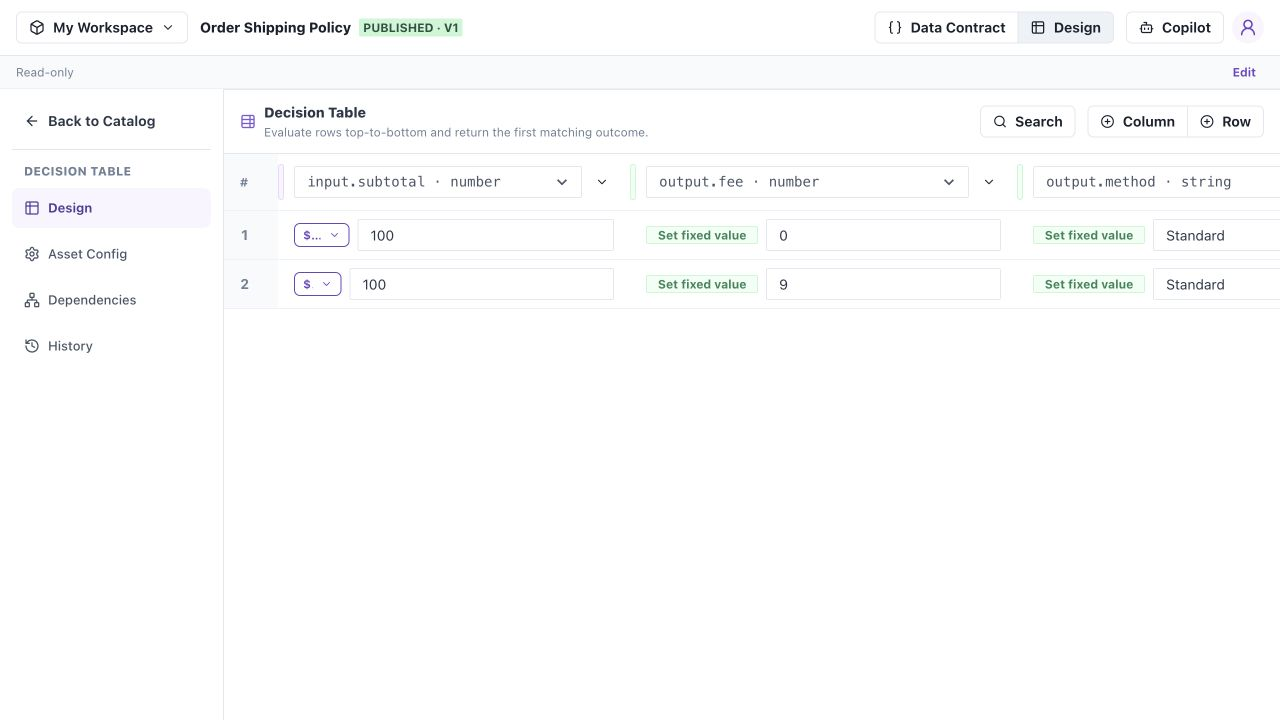
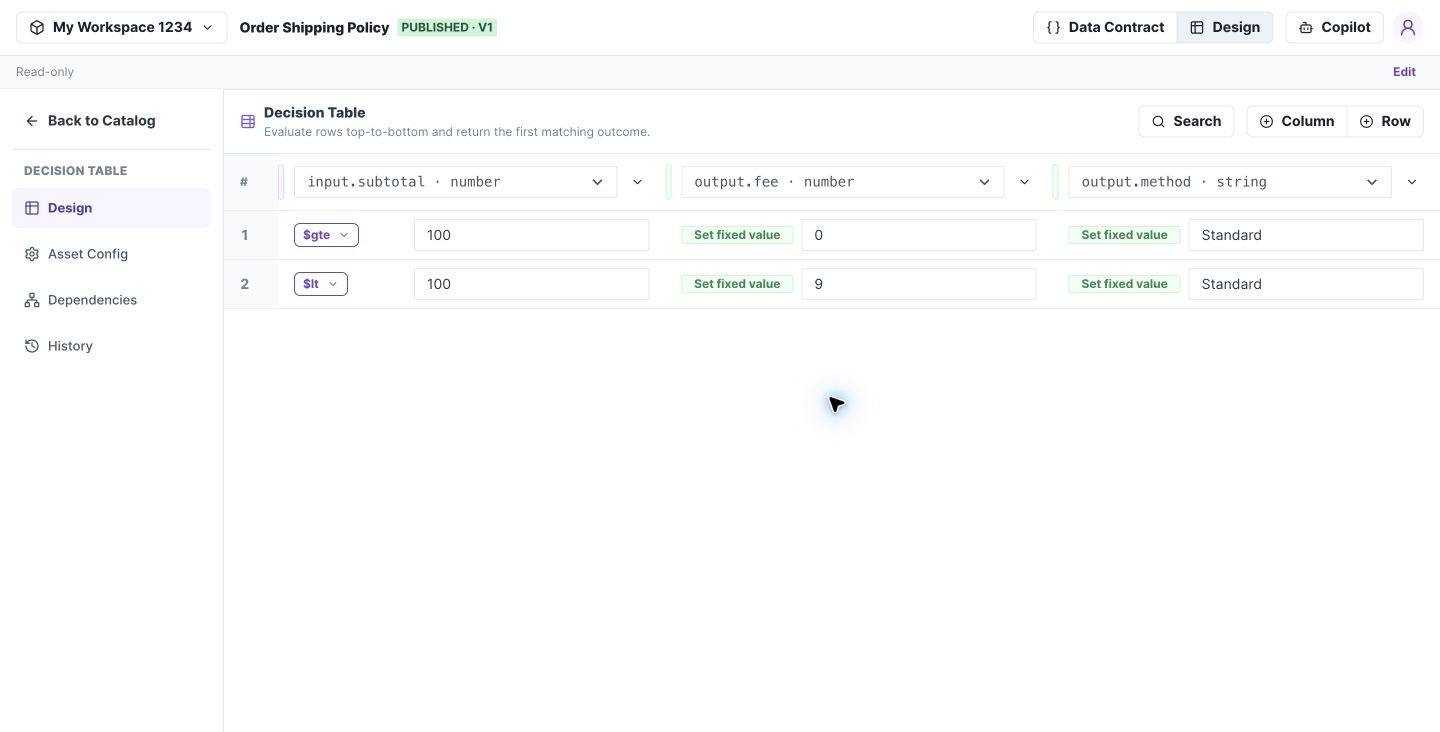
Refresh Order Shipping Policy screenshot

diff --git a/index.html b/index.html
@@ -16,7 +16,7 @@
 <section class="section container" id="product"><div class="section-heading"><div><span class="eyebrow">THE DECISION WORKSPACE</span><h2>Choose the right shape<br>for your business logic.</h2></div><p>From a simple policy table to a complete request-processing flow. Each asset has its own contract, draft, and published versions.</p></div>
 <div class="product-tabs" role="tablist" aria-label="Studio product capabilities"><button role="tab" id="tab-flow" aria-controls="panel-flow" aria-selected="true" tabindex="0"><svg class="icon " width="22" height="22" viewBox="0 0 24 24" fill="none" stroke="currentColor" stroke-width="1.5" stroke-linecap="round" stroke-linejoin="round" aria-hidden="true"><path d="M6 3v5m12 8v5M6 8h12v8M6 8v8"/><rect x="3" y="16" width="6" height="5" rx="1"/><rect x="15" y="3" width="6" height="5" rx="1"/></svg> Flows <span>Connect the steps</span></button><button role="tab" id="tab-table" aria-controls="panel-table" aria-selected="false" tabindex="-1"><svg class="icon " width="22" height="22" viewBox="0 0 24 24" fill="none" stroke="currentColor" stroke-width="1.5" stroke-linecap="round" stroke-linejoin="round" aria-hidden="true"><rect x="3" y="4" width="18" height="16" rx="2"/><path d="M3 10h18M3 15h18M9 4v16"/></svg> Decision Tables <span>Express the rules</span></button><button role="tab" id="tab-tree" aria-controls="panel-tree" aria-selected="false" tabindex="-1"><svg class="icon " width="22" height="22" viewBox="0 0 24 24" fill="none" stroke="currentColor" stroke-width="1.5" stroke-linecap="round" stroke-linejoin="round" aria-hidden="true"><circle cx="12" cy="5" r="2"/><circle cx="5" cy="19" r="2"/><circle cx="19" cy="19" r="2"/><path d="M12 7v5H5v5m7-5h7v5"/></svg> Decision Trees <span>Follow the branches</span></button></div>
 <div class="product-panel" id="panel-flow" role="tabpanel" aria-labelledby="tab-flow"><div class="panel-copy"><span class="feature-icon"><svg class="icon " width="22" height="22" viewBox="0 0 24 24" fill="none" stroke="currentColor" stroke-width="1.5" stroke-linecap="round" stroke-linejoin="round" aria-hidden="true"><path d="M6 3v5m12 8v5M6 8h12v8M6 8v8"/><rect x="3" y="16" width="6" height="5" rx="1"/><rect x="15" y="3" width="6" height="5" rx="1"/></svg></span><h3>The whole request.<br>One connected canvas.</h3><p>Prepare data, transform nested lists, look up reference values, and invoke reusable decision assets. Connect each step to a defined response.</p><ul class="check-list"><li>Validate, Set Fields, and Choose Fields</li><li>Map, filter, flatten, sort, trim, and aggregate lists</li><li>Pin published Table, Tree, and dataset versions</li><li>Inspect Test Input, Result, Trace, and Issues</li></ul><a class="inline-link" href="guide.html#build">Walk through a Flow <svg class="icon " width="22" height="22" viewBox="0 0 24 24" fill="none" stroke="currentColor" stroke-width="1.5" stroke-linecap="round" stroke-linejoin="round" aria-hidden="true"><path d="M4 12h16m-6-6 6 6-6 6"/></svg></a></div><button data-crop="editor" class="screenshot-button " data-image="assets/studio-flow.jpg?v=fbdeb8d8e2" data-caption="The Flow editor with the order fulfillment example" aria-label="Enlarge: The Flow editor with the order fulfillment example"><span class="capture-frame crop-editor"><img src="assets/studio-flow.jpg?v=fbdeb8d8e2" alt="The Flow editor with the order fulfillment example" loading="lazy" width="1280" height="720"></span><span class="enlarge"><svg class="icon " width="22" height="22" viewBox="0 0 24 24" fill="none" stroke="currentColor" stroke-width="1.5" stroke-linecap="round" stroke-linejoin="round" aria-hidden="true"><circle cx="10" cy="10" r="6"/><path d="m15 15 6 6"/></svg> View full screen</span></button></div>
-<div class="product-panel" id="panel-table" role="tabpanel" aria-labelledby="tab-table" hidden><div class="panel-copy"><span class="feature-icon"><svg class="icon " width="22" height="22" viewBox="0 0 24 24" fill="none" stroke="currentColor" stroke-width="1.5" stroke-linecap="round" stroke-linejoin="round" aria-hidden="true"><rect x="3" y="4" width="18" height="16" rx="2"/><path d="M3 10h18M3 15h18M9 4v16"/></svg></span><h3>Make policy rules<br>easy to review.</h3><p>Bind condition columns to typed Inputs and result columns to Outputs. Rows run from top to bottom; the first matching row determines the outcome.</p><ul class="check-list"><li>Conditions and results in a readable grid</li><li>Type-aware fields and condition operators</li><li>Fixed values and copied fields for results</li><li>Published snapshots with explicit draft editing</li></ul><a class="inline-link" href="guide.html#example">See the shipping policy <svg class="icon " width="22" height="22" viewBox="0 0 24 24" fill="none" stroke="currentColor" stroke-width="1.5" stroke-linecap="round" stroke-linejoin="round" aria-hidden="true"><path d="M4 12h16m-6-6 6 6-6 6"/></svg></a></div><button class="screenshot-button " data-image="assets/studio-table.jpg?v=a44a967be2" data-caption="Published Order Shipping Policy Decision Table" aria-label="Enlarge: Published Order Shipping Policy Decision Table"><img src="assets/studio-table.jpg?v=a44a967be2" alt="Published Order Shipping Policy Decision Table" loading="lazy" width="1280" height="720"><span class="enlarge"><svg class="icon " width="22" height="22" viewBox="0 0 24 24" fill="none" stroke="currentColor" stroke-width="1.5" stroke-linecap="round" stroke-linejoin="round" aria-hidden="true"><circle cx="10" cy="10" r="6"/><path d="m15 15 6 6"/></svg> View full screen</span></button></div>
+<div class="product-panel" id="panel-table" role="tabpanel" aria-labelledby="tab-table" hidden><div class="panel-copy"><span class="feature-icon"><svg class="icon " width="22" height="22" viewBox="0 0 24 24" fill="none" stroke="currentColor" stroke-width="1.5" stroke-linecap="round" stroke-linejoin="round" aria-hidden="true"><rect x="3" y="4" width="18" height="16" rx="2"/><path d="M3 10h18M3 15h18M9 4v16"/></svg></span><h3>Make policy rules<br>easy to review.</h3><p>Bind condition columns to typed Inputs and result columns to Outputs. Rows run from top to bottom; the first matching row determines the outcome.</p><ul class="check-list"><li>Conditions and results in a readable grid</li><li>Type-aware fields and condition operators</li><li>Fixed values and copied fields for results</li><li>Published snapshots with explicit draft editing</li></ul><a class="inline-link" href="guide.html#example">See the shipping policy <svg class="icon " width="22" height="22" viewBox="0 0 24 24" fill="none" stroke="currentColor" stroke-width="1.5" stroke-linecap="round" stroke-linejoin="round" aria-hidden="true"><path d="M4 12h16m-6-6 6 6-6 6"/></svg></a></div><button class="screenshot-button " data-image="assets/studio-table.jpg?v=a6a47d0704" data-caption="Published Order Shipping Policy Decision Table" aria-label="Enlarge: Published Order Shipping Policy Decision Table"><img src="assets/studio-table.jpg?v=a6a47d0704" alt="Published Order Shipping Policy Decision Table" loading="lazy" width="1440" height="732"><span class="enlarge"><svg class="icon " width="22" height="22" viewBox="0 0 24 24" fill="none" stroke="currentColor" stroke-width="1.5" stroke-linecap="round" stroke-linejoin="round" aria-hidden="true"><circle cx="10" cy="10" r="6"/><path d="m15 15 6 6"/></svg> View full screen</span></button></div>
 <div class="product-panel" id="panel-tree" role="tabpanel" aria-labelledby="tab-tree" hidden><div class="panel-copy"><span class="feature-icon"><svg class="icon " width="22" height="22" viewBox="0 0 24 24" fill="none" stroke="currentColor" stroke-width="1.5" stroke-linecap="round" stroke-linejoin="round" aria-hidden="true"><circle cx="12" cy="5" r="2"/><circle cx="5" cy="19" r="2"/><circle cx="19" cy="19" r="2"/><path d="M12 7v5H5v5m7-5h7v5"/></svg></span><h3>Give every condition<br>a visible outcome.</h3><p>Lay out decisions as a tree of conditions and result leaves. Use nested AND / OR groups to express policy, then assign the declared output values.</p><ul class="check-list"><li>Explicit Yes and No paths</li><li>Shared, type-aware condition authoring</li><li>Fixed-value and field-copy assignments</li><li>Validation linked to affected nodes</li></ul><a class="inline-link" href="guide.html#example">Explore the review policy <svg class="icon " width="22" height="22" viewBox="0 0 24 24" fill="none" stroke="currentColor" stroke-width="1.5" stroke-linecap="round" stroke-linejoin="round" aria-hidden="true"><path d="M4 12h16m-6-6 6 6-6 6"/></svg></a></div><button data-crop="editor" class="screenshot-button " data-image="assets/studio-tree.jpg?v=a0008da997" data-caption="Order Review Policy Decision Tree with conditions and result leaves" aria-label="Enlarge: Order Review Policy Decision Tree with conditions and result leaves"><span class="capture-frame crop-editor"><img src="assets/studio-tree.jpg?v=a0008da997" alt="Order Review Policy Decision Tree with conditions and result leaves" loading="lazy" width="1280" height="720"></span><span class="enlarge"><svg class="icon " width="22" height="22" viewBox="0 0 24 24" fill="none" stroke="currentColor" stroke-width="1.5" stroke-linecap="round" stroke-linejoin="round" aria-hidden="true"><circle cx="10" cy="10" r="6"/><path d="m15 15 6 6"/></svg> View full screen</span></button></div>
 </section>
 <section class="section foundation"><div class="container"><div class="section-heading"><div><span class="eyebrow">A SHARED FOUNDATION</span><h2>Clarity at every boundary.</h2></div><p>The rules are only part of the picture. Define what comes in, what can change, and exactly which version a Flow uses.</p></div><div class="foundation-grid"><article><div class="feature-icon"><svg class="icon " width="22" height="22" viewBox="0 0 24 24" fill="none" stroke="currentColor" stroke-width="1.5" stroke-linecap="round" stroke-linejoin="round" aria-hidden="true"><path d="M8 4H6a2 2 0 0 0-2 2v3l-2 3 2 3v3a2 2 0 0 0 2 2h2m8-16h2a2 2 0 0 1 2 2v3l2 3-2 3v3a2 2 0 0 1-2 2h-2"/></svg></div><h3>Contracts before configuration</h3><p>Declare typed Inputs and Outputs for each asset. Use Flow Variables for intermediate values, with field selection informed by upstream steps.</p><a href="guide.html#contract" class="inline-link">Define your data <svg class="icon " width="22" height="22" viewBox="0 0 24 24" fill="none" stroke="currentColor" stroke-width="1.5" stroke-linecap="round" stroke-linejoin="round" aria-hidden="true"><path d="M4 12h16m-6-6 6 6-6 6"/></svg></a></article><article><div class="feature-icon"><svg class="icon " width="22" height="22" viewBox="0 0 24 24" fill="none" stroke="currentColor" stroke-width="1.5" stroke-linecap="round" stroke-linejoin="round" aria-hidden="true"><ellipse cx="12" cy="5" rx="8" ry="3"/><path d="M4 5v14c0 4 16 4 16 0V5M4 12c0 4 16 4 16 0"/></svg></div><h3>Reference data with a version</h3><p>Import an Excel worksheet, define its primary key, and publish a dataset. Configure lookups against a specific snapshot and choose how to handle no match.</p><a href="guide.html#reference-data" class="inline-link">Manage lookup data <svg class="icon " width="22" height="22" viewBox="0 0 24 24" fill="none" stroke="currentColor" stroke-width="1.5" stroke-linecap="round" stroke-linejoin="round" aria-hidden="true"><path d="M4 12h16m-6-6 6 6-6 6"/></svg></a></article><article><div class="feature-icon"><svg class="icon " width="22" height="22" viewBox="0 0 24 24" fill="none" stroke="currentColor" stroke-width="1.5" stroke-linecap="round" stroke-linejoin="round" aria-hidden="true"><circle cx="6" cy="5" r="2"/><circle cx="6" cy="19" r="2"/><circle cx="18" cy="5" r="2"/><path d="M6 7v10m12-10v3c0 4-12 2-12 7"/></svg></div><h3>Deliberate change management</h3><p>Save a working draft, validate it, and publish an immutable version. Begin the next change with Edit while existing references stay pinned.</p><a href="guide.html#publish" class="inline-link">Understand the lifecycle <svg class="icon " width="22" height="22" viewBox="0 0 24 24" fill="none" stroke="currentColor" stroke-width="1.5" stroke-linecap="round" stroke-linejoin="round" aria-hidden="true"><path d="M4 12h16m-6-6 6 6-6 6"/></svg></a></article></div></div></section>
